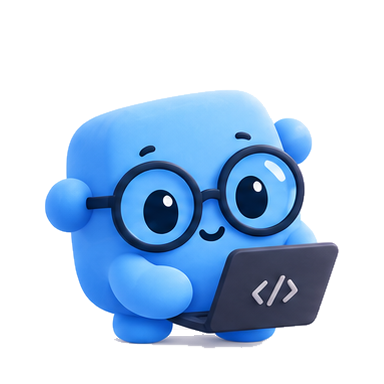
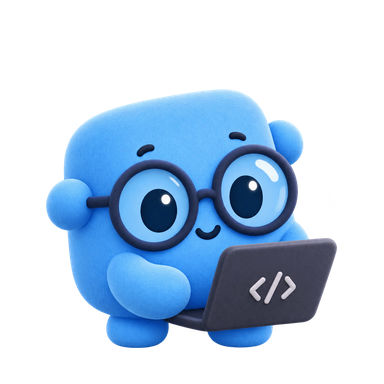
Helper folks: art generated transparent, with no cut-out leftovers
All ten were cut from a white sheet, which left white patches under their feet and
around small props. Six are newly generated and four are the website's. Names,
384x384 size and floor line stay the same, so no code changes. The cut script is gone.

diff --git a/docs/STATUS.md b/docs/STATUS.md
@@ -56,6 +56,8 @@ snapshots. **Playtime 1.0.0-snapshot.9** needs Sidefolk snapshot 867, and a copy
 - **For the founder, from snapshot B (D101):** the reaction props the app still draws (D101's "Left for the founder"); in two-player rock, paper, scissors the reveal still says "You" and the companion's name with a winner's glow, as the old code did, against D96. Checks and what wasn't run: HISTORY's top entry. **Open, small:** with a surface panel open `snap` lists a 40×40 fully transparent `FloatingPanel` near the companion; not identified.
 - **For other branches:** `Sources/SidefolkApp/Play/` and `Sources/SidefolkCore/Games/` are gone, so a branch from before snapshot B that touches them will conflict: its game changes go into Playtime in the add-ons instead.
 
+- **Helper folks' art (D73 amended):** all ten paintings in `Sources/SidefolkCharacter/Art/folks/` are now generated transparent, not cut from a white sheet: same names, 384×384 and floor line, no loose notes or sparkles. Checked on magenta, dark and white, at the app's sizes against the old ones, and in `--ui-snapshots` (Today, the desktop floor); Scout, Pip, Byte and Guard are the site's art. `folk-family/<id>/<id>.png` were already clean. `Resources/Character/folks.png` still shows the vector folks from before D73. Next: the snapshot after the 2026-11-03 integration.
+
 - **Website:** `https://getsidefolk.com` (registered at GoDaddy, verified on the founder's GitHub account, HTTPS
   enforced) serves a one-page placeholder with no download button, from the separate repository
   [sidefolk-site](https://github.com/ghassenbrg/sidefolk-site): `public/`, deployed on every push to its `main`. It

diff --git a/docs/DECISIONS.md b/docs/DECISIONS.md
@@ -1942,9 +1942,12 @@ screen and has the network), so its word adds no reach. SECURITY T2, T21, T36; E
 **Decision:** the ten on-duty helper folks use paintings cut from the founder-approved reference in
 `folk-family/redesign-2026-10-31/`. Their existing helper roles, accessibility labels, placement, and
 whole-body entrance, exit and breathing remain. The vector drawing is retained as a fallback and for
-the resource-free plain version; the selectable companions are unchanged. `scripts/cut-folk-redesign.py`
-rebuilds the bundled paintings from the reference.
+the resource-free plain version; the selectable companions are unchanged.
 **Why:** the founder approved the new silhouettes and asked for the current helpers to match them.
+*Amended 2026-11-03:* the paintings are no longer cut from that white sheet, which left white patches under their
+feet and around small props. All ten are generated transparent from the start, with the reference as their likeness,
+and they stay the same size in the same canvas with the same floor line. The founder's rule: never generate on a
+background and cut it out afterwards. The loose marks (notes, sparkles, steam) are gone, since that's where leftovers hid.
 
 ### D74 — Extension pages read like app screens: a hero, one primary action, choices as pictures, cards and rows; Miraya rebuilt on them (2026-10-31)
 **Decision:** pages get what a well-organised app screen needs, for any extension, still drawn by Sidefolk from data
